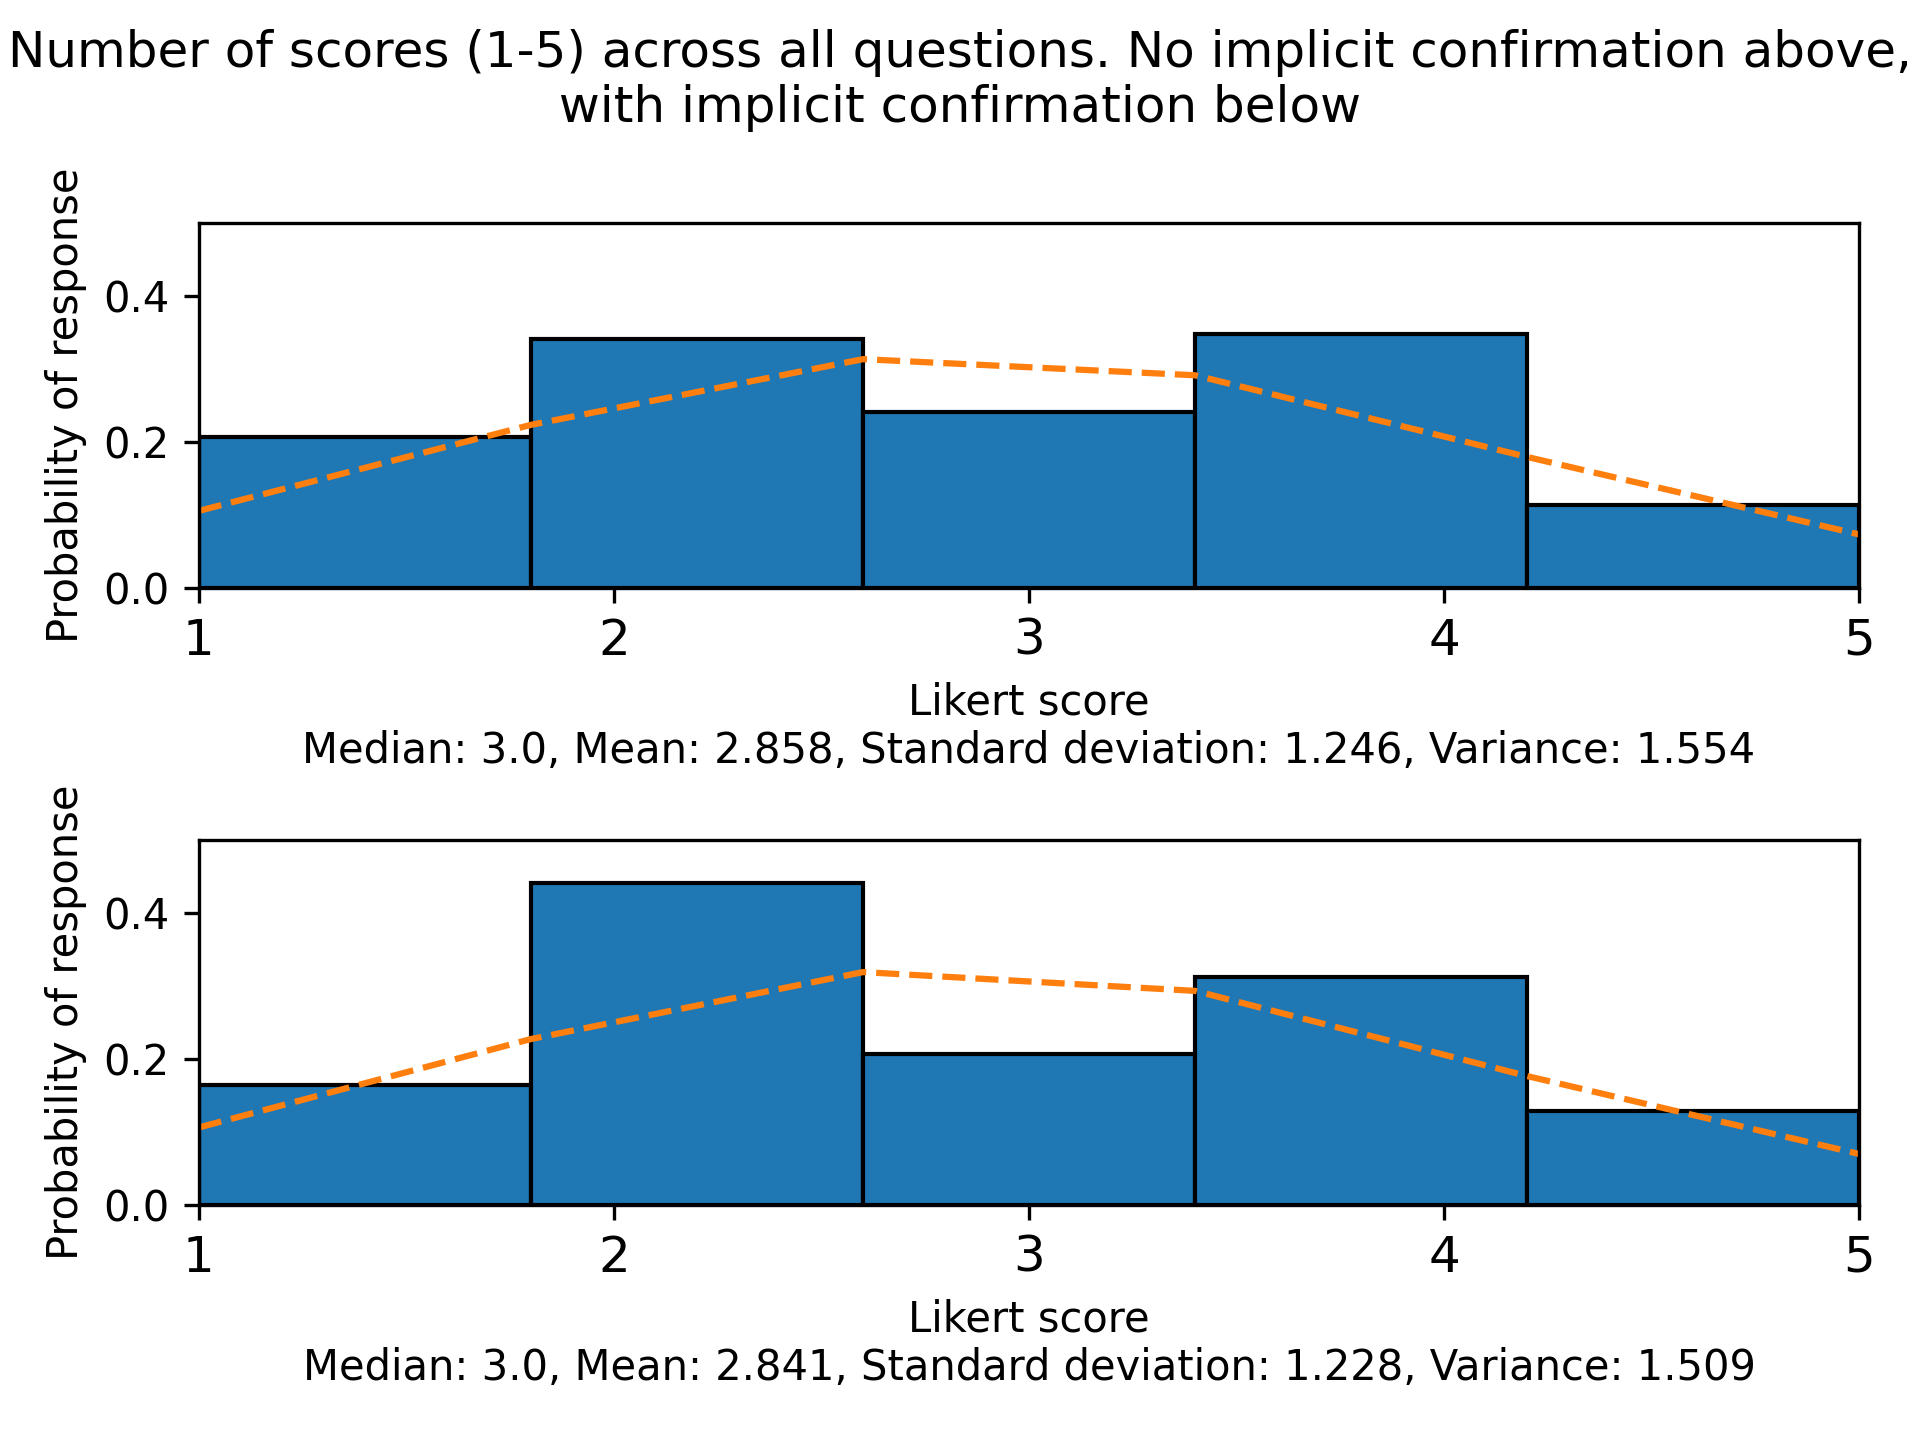
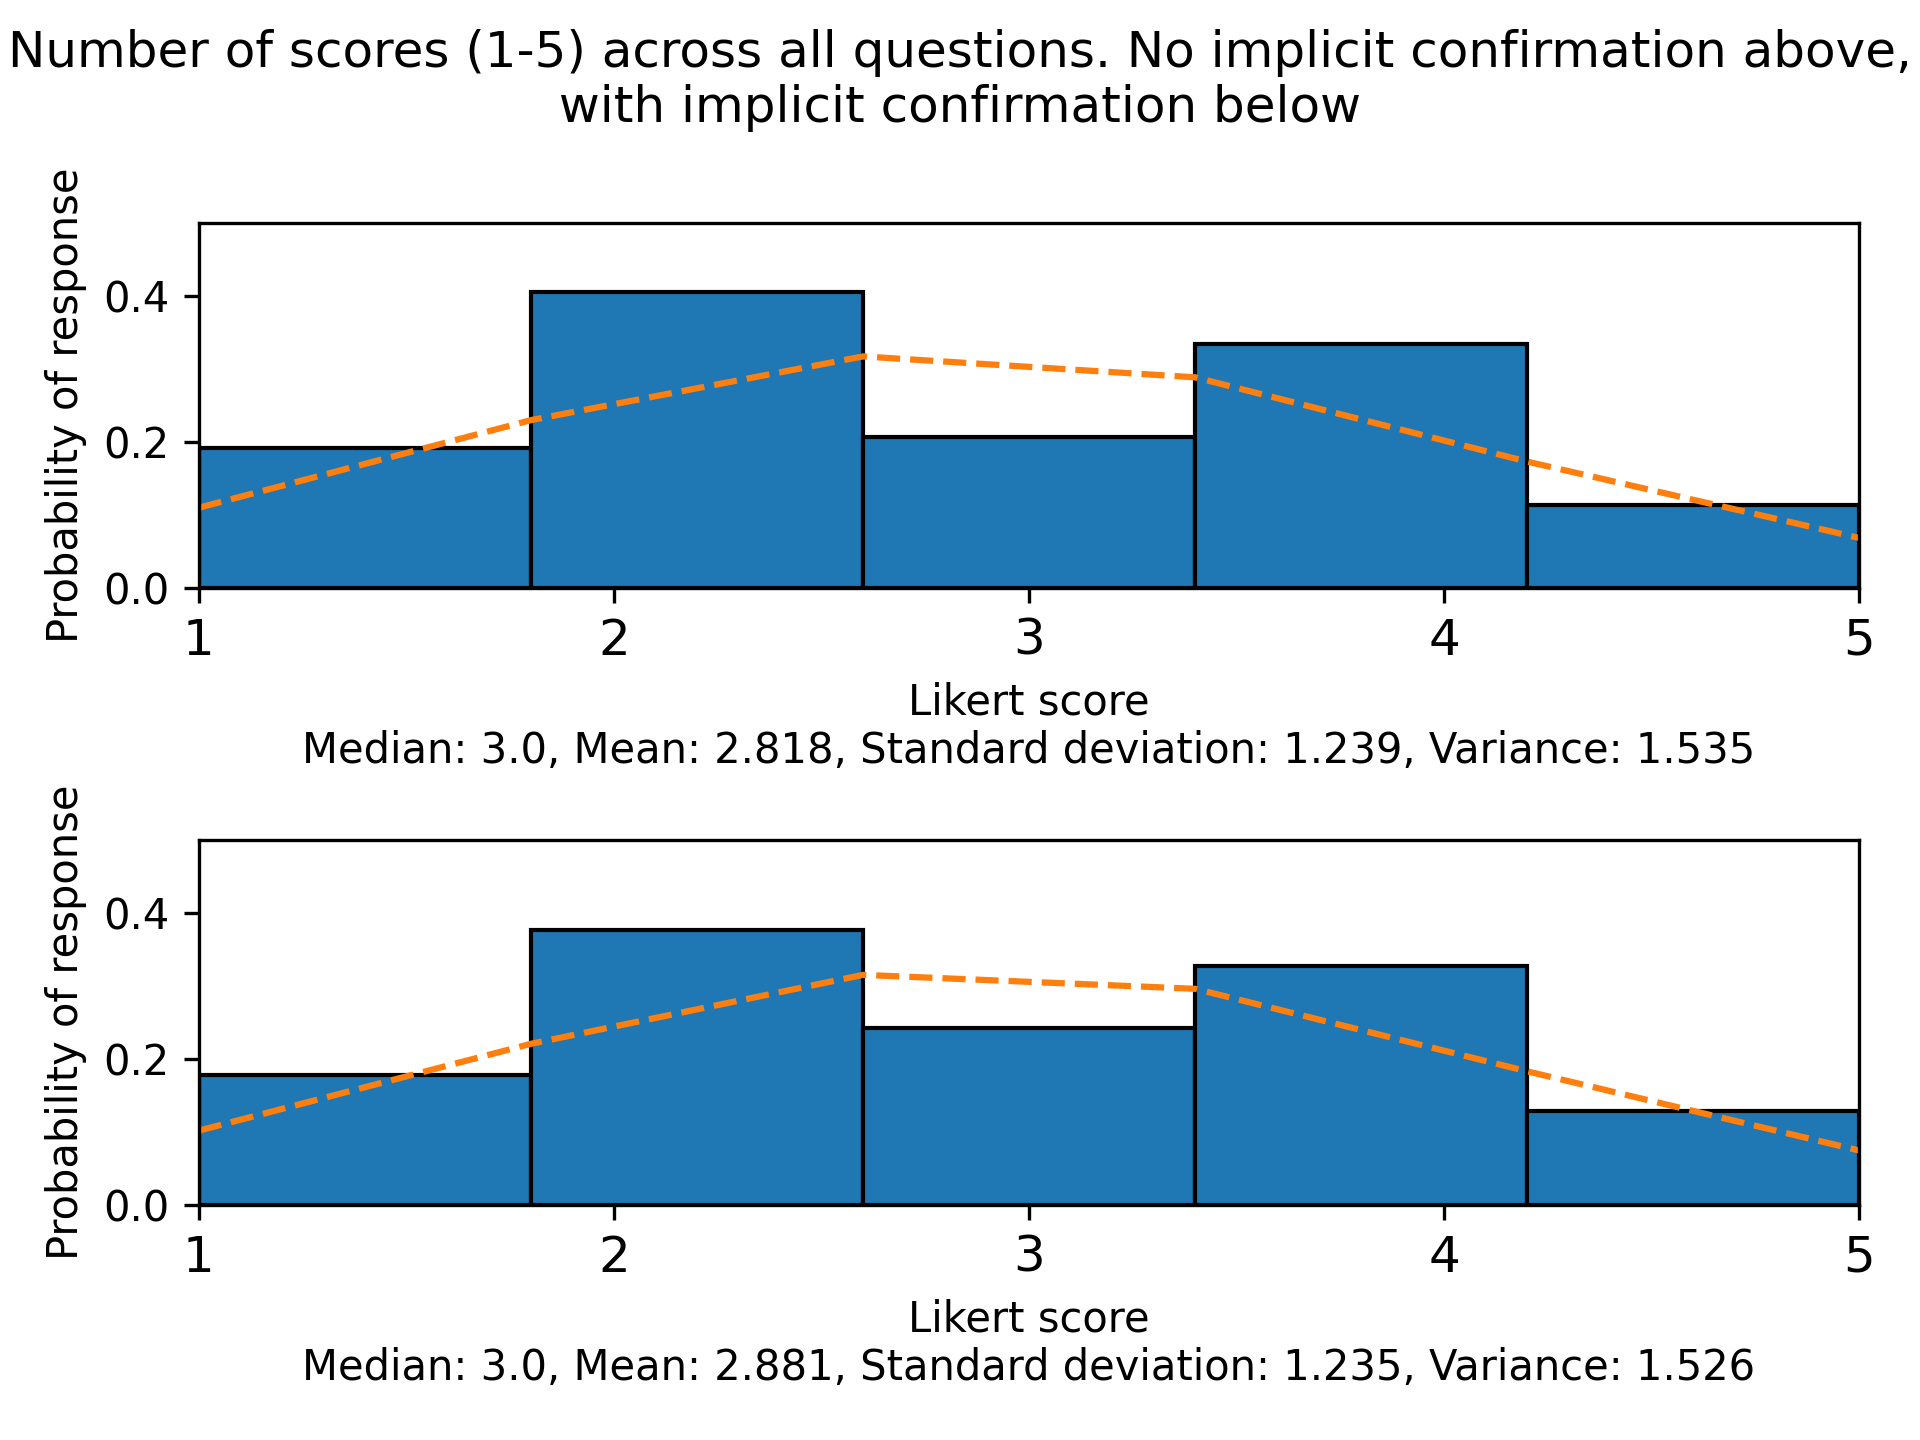
graph fixes

diff --git a/survey_graph.py b/survey_graph.py
@@ -20,8 +20,8 @@ def get_graph_dictionary(survey_results_file):
             "first": [0.,0.,0.,0.,0.,0.,0.,0.],
             "second": [0.,0.,0.,0.,0.,0.,0.,0.]
         },
-        "first_task_responses": [[], [], [], [], [], [], [], []],
-        "second_task_responses": [[], [], [], [], [], [], [], []]
+        "non_implicit_responses": [[], [], [], [], [], [], [], []],
+        "implicit_responses": [[], [], [], [], [], [], [], []]
     }
     group_count = {
         "a": 0,
@@ -36,8 +36,12 @@ def get_graph_dictionary(survey_results_file):
             group = survey_output.entries[participant_index].group
             output_dictionary[group]["first"][question_index] += first_task_question_response
             output_dictionary[group]["second"][question_index] += second_task_question_response
-            output_dictionary["first_task_responses"][question_index].append(first_task_question_response)
-            output_dictionary["second_task_responses"][question_index].append(second_task_question_response)
+            if group == "a":
+                output_dictionary["non_implicit_responses"][question_index].append(first_task_question_response)
+                output_dictionary["implicit_responses"][question_index].append(second_task_question_response)
+            else:
+                output_dictionary["non_implicit_responses"][question_index].append(second_task_question_response)
+                output_dictionary["implicit_responses"][question_index].append(first_task_question_response)
 
     for entry in survey_output.entries:
         group_count[entry.group] += 1
@@ -51,10 +55,10 @@ def get_graph_dictionary(survey_results_file):
 
 
 def plot_bar_averages(graph_dictionary, save_file = False):
-    #A first task
-    #B second task
-    #A second task
-    #B first task
+    #A first task w/o
+    #B second task w/o
+    #A second task w
+    #B first task w
     result_array = {}
     for question_index in range(8): # for visualizing the means over groups
         result_array[question_index] = []
@@ -160,31 +164,31 @@ def plot_question_score_responses(grap_dictionary, save_file = False, condensed 
         for i in range(16):
             main_index = 0
             if i<8:
-                data = graph_dictionary["first_task_responses"][i]
+                data = graph_dictionary["non_implicit_responses"][i]
             else:
-                data = graph_dictionary["second_task_responses"][i % 8]
+                data = graph_dictionary["implicit_responses"][i % 8]
                 main_index = 1
 
             ax[main_index][i % 8].set_xticks(np.arange(1,6))
             ax[main_index][i % 8].set_xticklabels(np.arange(1,6))
             ax[main_index][i%8].set_xlim(1,5)
             ax[main_index][i % 8].set_ylim(0, 15)
-            ax[main_index][i % 8].set_title('Question {}'.format(i%8+1))
-            ax[main_index][i % 8].set_ylabel("# of responses")
-            ax[main_index][i % 8].set_xlabel("Likert score")
+            ax[main_index][i % 8].set_title('Question {}'.format(i%8+1),{"fontsize":11})
+            ax[main_index][i % 8].set_ylabel("# of responses",fontsize=11)
+            ax[main_index][i % 8].set_xlabel("Likert score",fontsize=11)
             ax[main_index][i%8].hist(data,bins=5,edgecolor="black")
 
-        fig.suptitle("Number of scores (1-5) per question. No implicit confirmation above,\n with implicit confirmation below ")
+        fig.suptitle("Number of scores (1-5) per question. No implicit confirmation above,\n with implicit confirmation below ",fontsize=11)
         plt.tight_layout()
-        if save_file: plt.savefig('images/hist_question_score_responses.png', dpi=300)
+        if save_file: plt.savefig('images/hist_question_score_responses.png', dpi=100)
 
     else:
         fig, ax = plt.subplots(2)
         without_implicit = ""
         with_implicit = ""
 
-        data1_nonflat = graph_dictionary["first_task_responses"]
-        data2_nonflat = graph_dictionary["second_task_responses"]
+        data1_nonflat = graph_dictionary["non_implicit_responses"]
+        data2_nonflat = graph_dictionary["implicit_responses"]
         data1 = [item for sublist in data1_nonflat for item in sublist]
         data2 = [item for sublist in data2_nonflat for item in sublist]
 
@@ -229,7 +233,7 @@ def plot_question_score_responses(grap_dictionary, save_file = False, condensed 
     plt.show()
 
 
-save_stuff = False
+save_stuff = True
 graph_dictionary = get_graph_dictionary("participant_survey.csv")
 plot_bar_averages(graph_dictionary, save_file=save_stuff)
 plot_error_bars(graph_dictionary, save_file=save_stuff)
